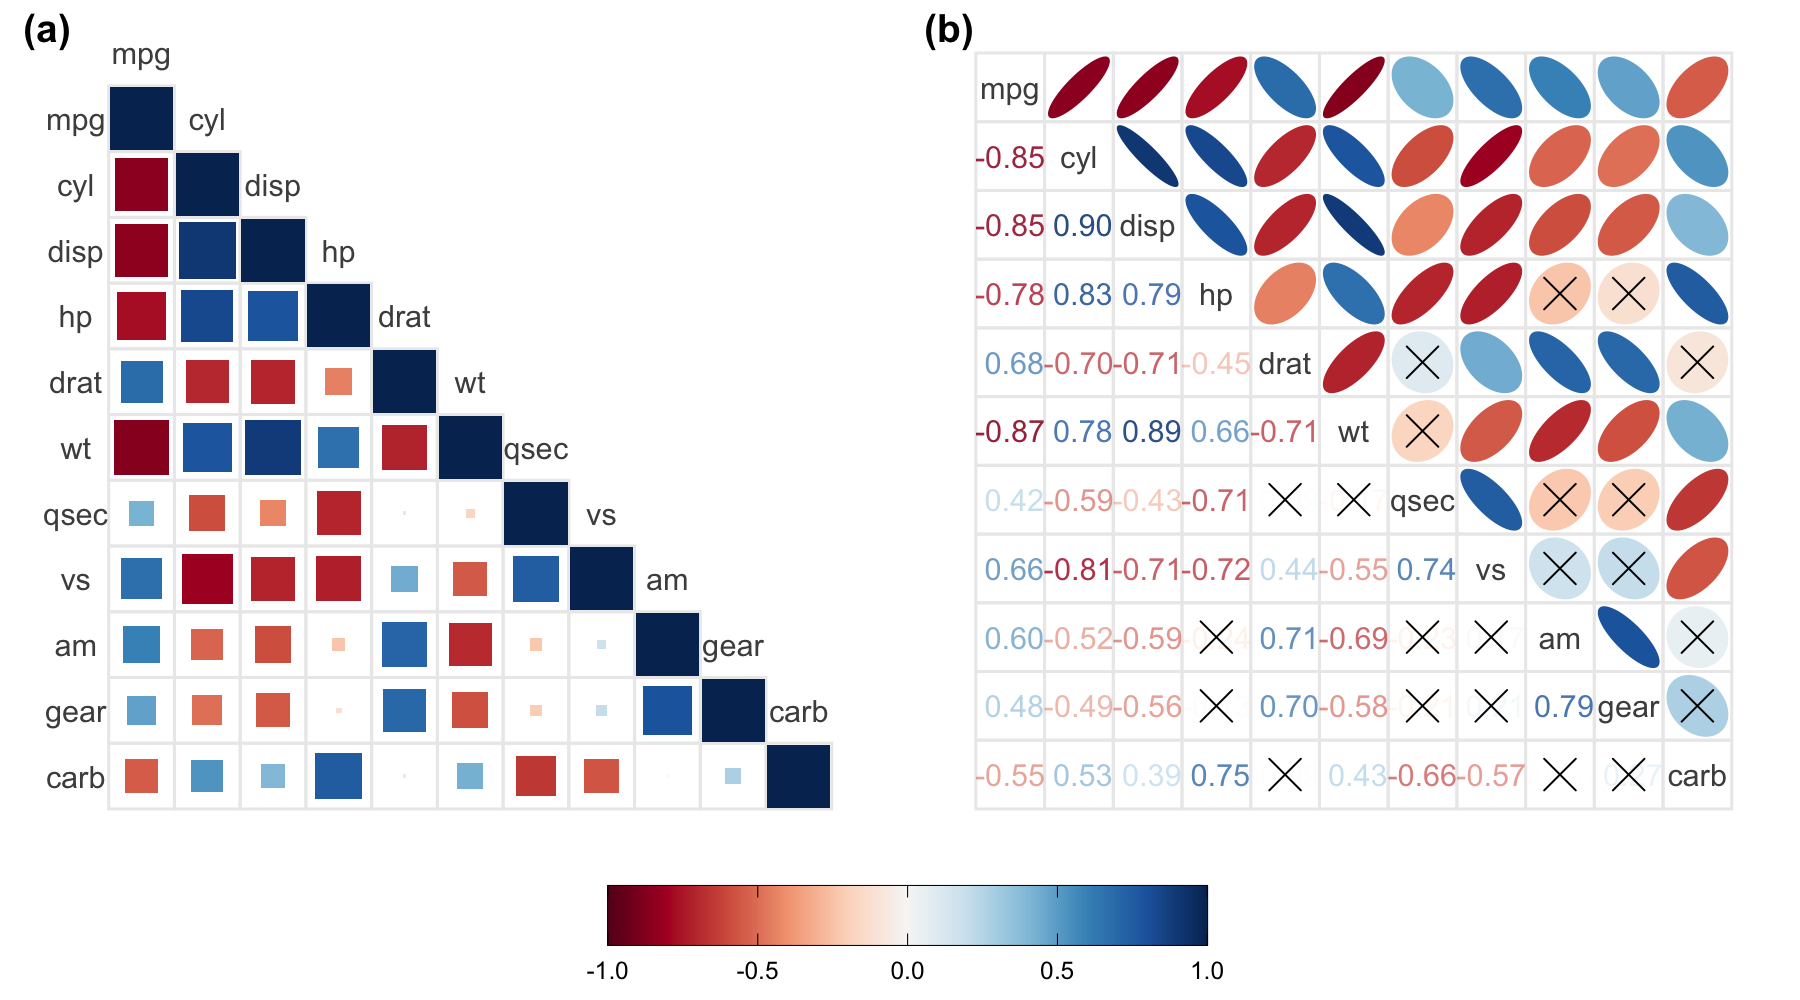
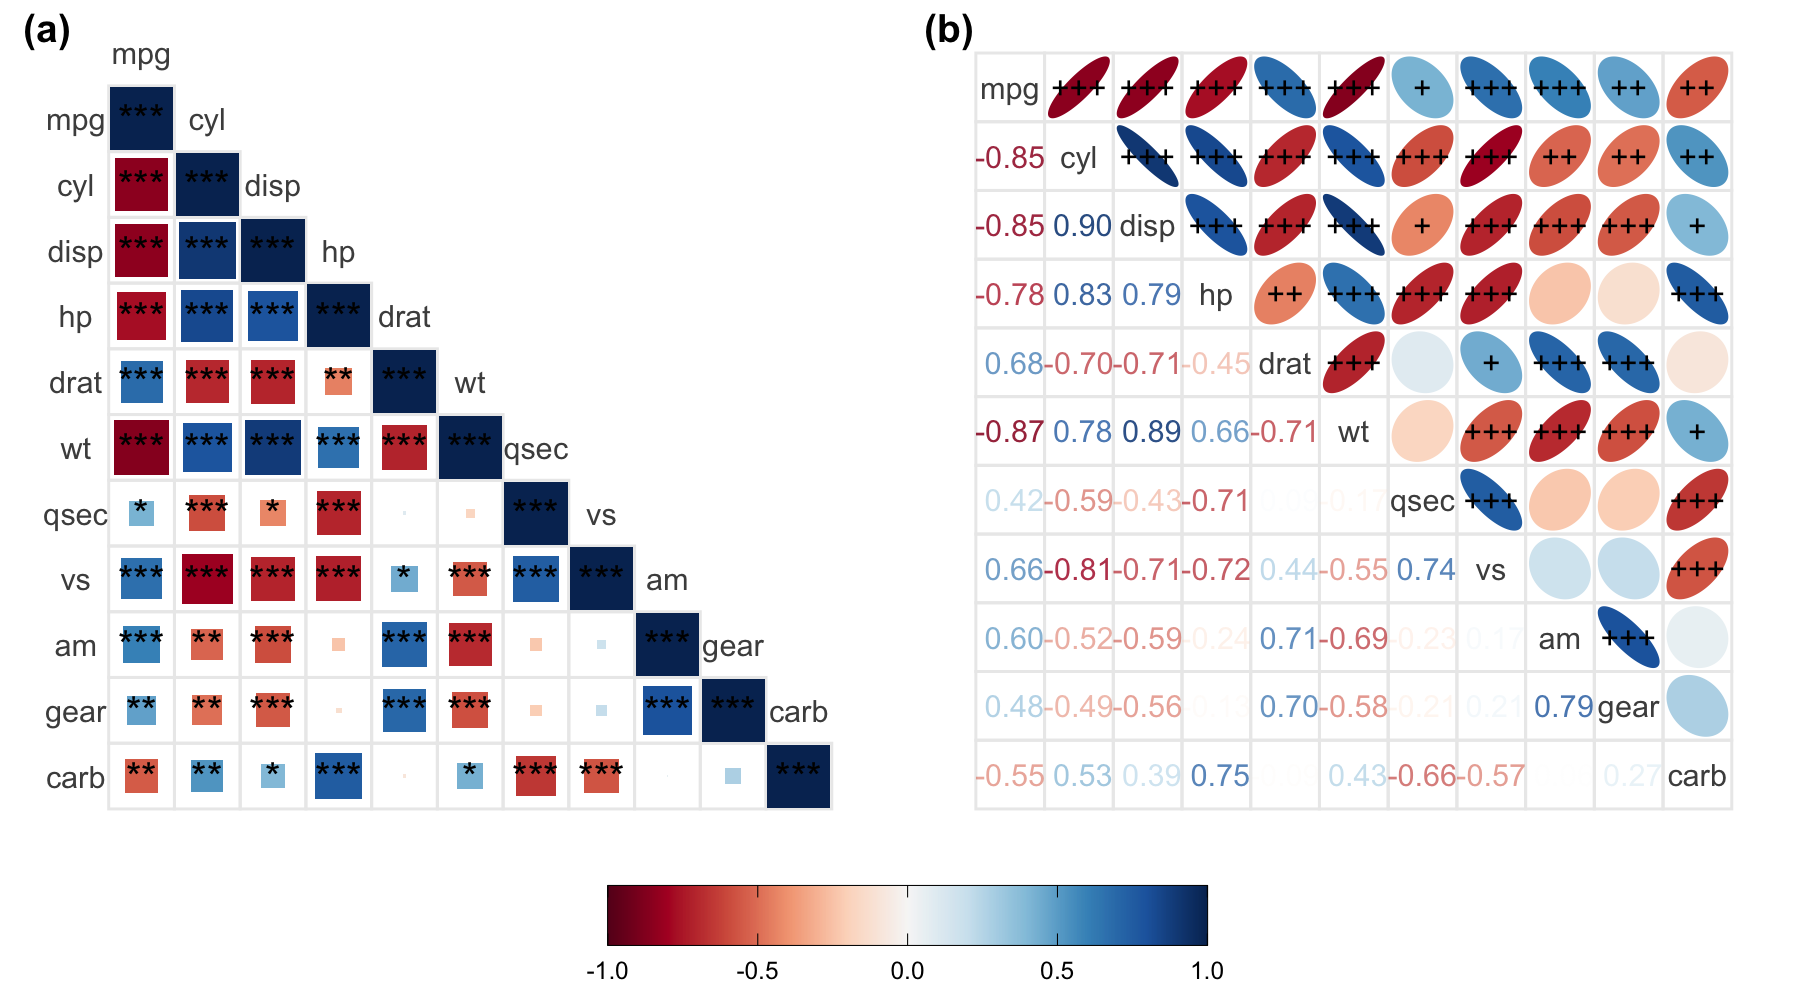
add insig = label_sig

diff --git a/README.md b/README.md
@@ -128,6 +128,23 @@ ggcorrplot.mixed(corr, upper = "ellipse", lower = "number", p.mat = p.mat,
 
 ![](figs/README-unnamed-chunk-2-10.png)<!-- -->
 
+``` r
+# Label significant coefficients with varying number of * (default)
+ggcorrplot.mixed(corr, upper = "ellipse", lower = "number", p.mat = p.mat, 
+                 insig = "label_sig", sig.lvl = c(0.05, 0.01, 0.001))
+```
+
+![](figs/README-unnamed-chunk-2-11.png)<!-- -->
+
+``` r
+# Label significant coefficients with arying number of +
+ggcorrplot.mixed(corr, upper = "ellipse", lower = "number", p.mat = p.mat, 
+                 insig = "label_sig", sig.lvl = c(0.05, 0.01, 0.001), pch = "+", 
+                 pch.cex = 4)
+```
+
+![](figs/README-unnamed-chunk-2-12.png)<!-- -->
+
 The above examples reproduce some features of **corrplot**. In the
 following example, the added advantages of implementing **corrplot**
 using ggplot2, such as customizing the appearance of corrgram, combining
@@ -137,9 +154,12 @@ using [cowplot](https://github.com/wilkelab/cowplot), are demonstrated.
 ``` r
 # Combine a lower corrgram and a mixed corrgram side by side with a shared colorbar on the bottom
 # a lower corrgram
-p1 <- ggcorrplot(corr, type = "lower", method = "square")
+p1 <- ggcorrplot(corr, type = "lower", method = "square", p.mat = p.mat, 
+                 insig = "label_sig", sig.lvl = c(0.05, 0.01, 0.001))
 # a mixed corrgram
-p2 <- ggcorrplot.mixed(corr, upper = "ellipse", lower = "number", p.mat = p.mat)
+p2 <- ggcorrplot.mixed(corr, upper = "ellipse", lower = "number", p.mat = p.mat, 
+                       insig = "label_sig", sig.lvl = c(0.05, 0.01, 0.001), 
+                       pch = "+", pch.cex = 4)
 
 library(cowplot)
 prow <- plot_grid(p1 + ggplot2::theme(legend.position = "none"),
